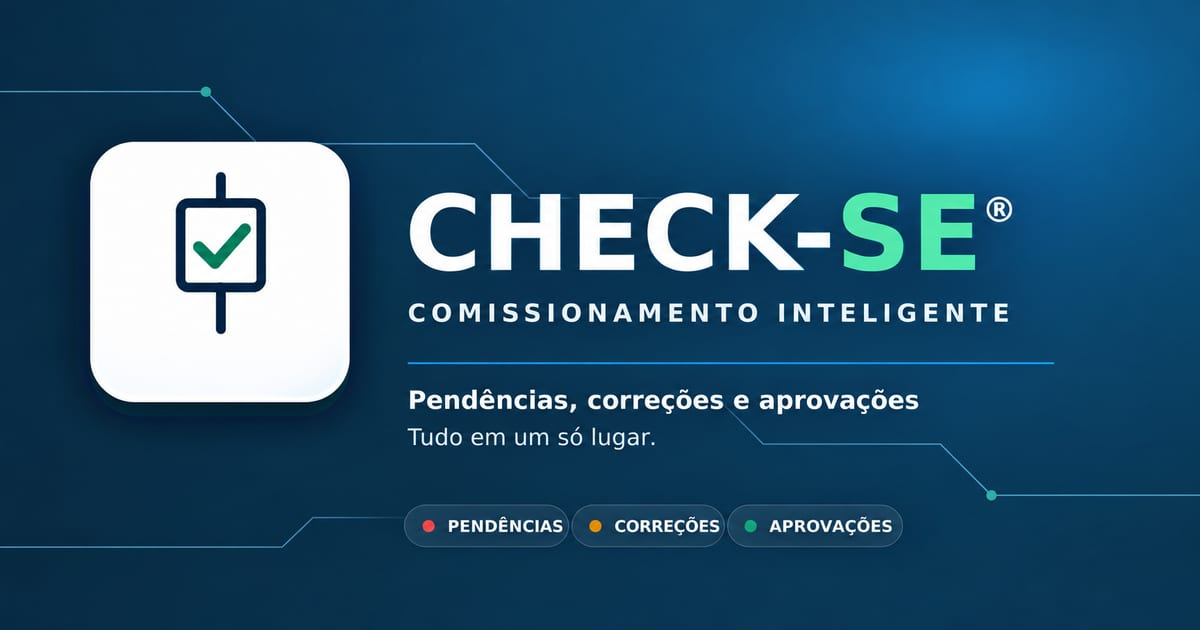
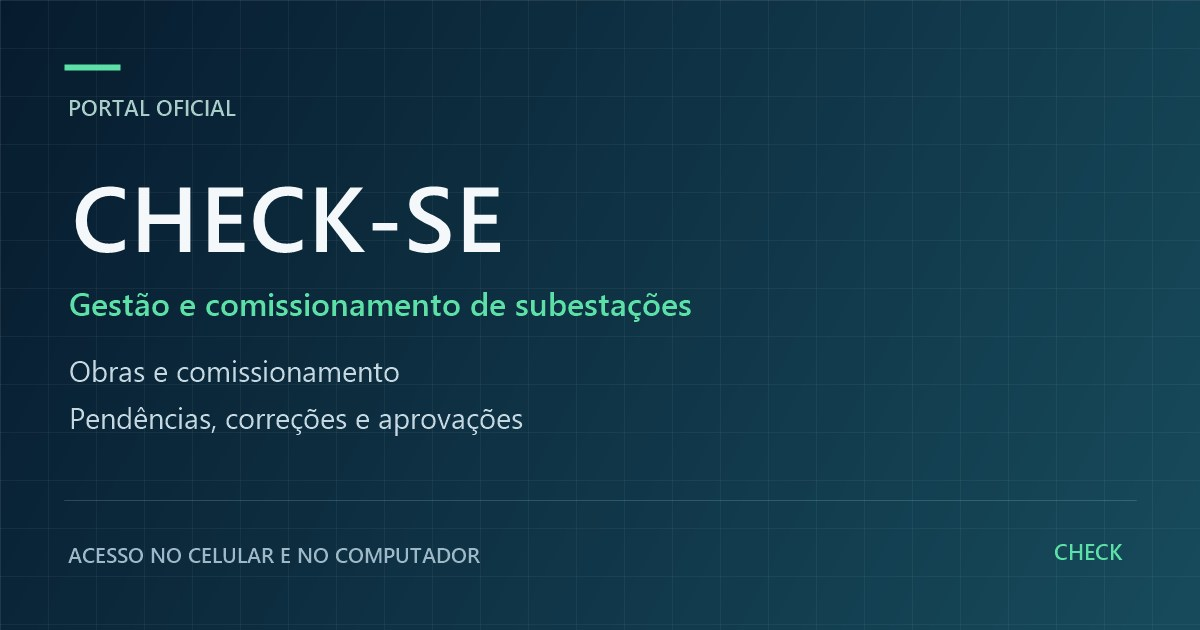
Atualiza apresentação do CHECK-SE e capa de compartilhamento

diff --git a/index.html b/index.html
@@ -9,26 +9,26 @@
   <meta name="apple-mobile-web-app-capable" content="yes">
   <meta name="apple-mobile-web-app-status-bar-style" content="black-translucent">
   <meta name="apple-mobile-web-app-title" content="CHECK-SE">
-  <title>CHECK-SE® | Comissionamento Inteligente</title>
+  <title>CHECK-SE | Gestão e comissionamento de subestações</title>
   <link rel="canonical" href="https://byskopf.github.io/CHECK-SE/">
 
   <meta property="og:locale" content="pt_BR">
   <meta property="og:type" content="website">
   <meta property="og:site_name" content="CHECK-SE®">
-  <meta property="og:title" content="CHECK-SE® | Comissionamento Inteligente">
-  <meta property="og:description" content="Pendências, correções e aprovações de obras e comissionamento — tudo em um só lugar.">
+  <meta property="og:title" content="CHECK-SE | Gestão e comissionamento de subestações">
+  <meta property="og:description" content="Obras e comissionamento de subestações, com gestão de pendências, correções e aprovações.">
   <meta property="og:url" content="https://byskopf.github.io/CHECK-SE/">
-  <meta property="og:image" content="https://byskopf.github.io/CHECK-SE/og-check-se-whatsapp.jpg?v=3">
-  <meta property="og:image:secure_url" content="https://byskopf.github.io/CHECK-SE/og-check-se-whatsapp.jpg?v=3">
+  <meta property="og:image" content="https://byskopf.github.io/CHECK-SE/og-check-se-whatsapp.jpg?v=20260913">
+  <meta property="og:image:secure_url" content="https://byskopf.github.io/CHECK-SE/og-check-se-whatsapp.jpg?v=20260913">
   <meta property="og:image:type" content="image/jpeg">
   <meta property="og:image:width" content="1200">
   <meta property="og:image:height" content="630">
-  <meta property="og:image:alt" content="CHECK-SE — Comissionamento Inteligente">
+  <meta property="og:image:alt" content="CHECK-SE — Gestão e comissionamento de subestações">
 
   <meta name="twitter:card" content="summary_large_image">
-  <meta name="twitter:title" content="CHECK-SE® | Comissionamento Inteligente">
-  <meta name="twitter:description" content="Pendências, correções e aprovações de obras e comissionamento — tudo em um só lugar.">
-  <meta name="twitter:image" content="https://byskopf.github.io/CHECK-SE/og-check-se-whatsapp.jpg?v=3">
+  <meta name="twitter:title" content="CHECK-SE | Gestão e comissionamento de subestações">
+  <meta name="twitter:description" content="Obras e comissionamento de subestações, com gestão de pendências, correções e aprovações.">
+  <meta name="twitter:image" content="https://byskopf.github.io/CHECK-SE/og-check-se-whatsapp.jpg?v=20260913">
   <link rel="preconnect" href="https://script.google.com">
   <link rel="preconnect" href="https://script.googleusercontent.com">
   <link rel="dns-prefetch" href="//script.google.com">
@@ -88,6 +88,15 @@
   </style>
   <script src="app-config.js" defer></script>
   <script src="app.js" defer></script>
+  <style>
+    .features{margin-top:24px;padding-top:20px;border-top:1px solid rgba(255,255,255,.14);text-align:left}
+    .features h2{margin:0 0 14px;font-size:1rem;font-weight:600;line-height:1.4}
+    .features dl{display:grid;grid-template-columns:repeat(2,minmax(0,1fr));gap:16px;margin:0}
+    .features dt{font-size:.9rem;font-weight:600;line-height:1.4}
+    .features dd{margin:5px 0 0;font-size:.84rem;line-height:1.55;color:#b6c6d3}
+    @media(max-width:480px){.features dl{grid-template-columns:1fr;gap:14px}}
+  </style>
+<style>.portal-links{display:flex;flex-wrap:wrap;gap:12px;justify-content:center;margin-top:22px}.portal-links a,.portal-links button{color:#bdf3d9;font:inherit;font-size:.82rem;font-weight:600;background:none;border:1px solid rgba(92,224,168,.22);padding:10px 12px;border-radius:10px;text-decoration:none;cursor:pointer}.portal-links button[hidden]{display:none}.share-status{font-size:.82rem;line-height:1.5;color:#b8c7d5;text-align:center}.wordmark p{line-height:1.6;letter-spacing:.08em;font-weight:600}</style>
 </head>
 <body>
   <div class="ambient ambient-one" aria-hidden="true"></div>
@@ -122,7 +131,7 @@
 
       <div class="wordmark">
         <h1 id="pageTitle"><span>CHECK-</span><strong>SE</strong><sup>®</sup></h1>
-        <p>Comissionamento inteligente</p>
+        <p>Gestão e comissionamento de subestações</p>
       </div>
 
       <p class="intro" id="introText">
@@ -160,10 +169,24 @@
         </li>
       </ul>
 
+      <section class="features" aria-labelledby="featuresTitle">
+        <h2 id="featuresTitle">O que você encontra no CHECK-SE</h2>
+        <dl>
+          <div><dt>Obras e comissionamento</dt><dd>Acompanhe os trabalhos de comissionamento nas subestações.</dd></div>
+          <div><dt>Gestão de pendências</dt><dd>Organize os itens que precisam de atenção durante a obra.</dd></div>
+          <div><dt>Correções</dt><dd>Acompanhe o tratamento das pendências pelas equipes responsáveis.</dd></div>
+          <div><dt>Aprovações</dt><dd>Confira as correções e acompanhe a aprovação dos itens.</dd></div>
+        </dl>
+  
+    </section>
+
       <div class="security-note">
         <svg aria-hidden="true" viewBox="0 0 24 24"><path d="M12 3 5 6v5c0 4.6 2.8 8 7 10 4.2-2 7-5.4 7-10V6z"/><path class="accent" d="m9 12 2 2 4-4"/></svg>
         <span>Você será direcionado ao ambiente do CHECK-SE.</span>
       </div>
+<div class="portal-links"><a href="https://byskopf.github.io/check-selt/">Ver os dois sistemas</a><button type="button" hidden data-share-title="CHECK-SE" data-share-url="https://byskopf.github.io/CHECK-SE/">Compartilhar CHECK-SE</button></div>
+      <p id="shareStatus" class="share-status" role="status" aria-live="polite"></p>
+      <script src="share.js" defer></script>
     </section>
 
     <footer>

diff --git a/share.js b/share.js
@@ -1,0 +1,12 @@
+document.querySelectorAll('[data-share-url]').forEach(function(button){
+  button.hidden=false;
+  button.addEventListener('click',async function(){
+    var data={title:button.dataset.shareTitle,url:button.dataset.shareUrl};
+    var status=document.getElementById('shareStatus');
+    try{
+      if(navigator.share){await navigator.share(data);}
+      else if(navigator.clipboard&&window.isSecureContext){await navigator.clipboard.writeText(data.url);status.textContent='Link copiado. Cole na conversa em que deseja compartilhar.';}
+      else{status.textContent='Copie este link: '+data.url;}
+    }catch(error){if(error.name!=='AbortError')status.textContent='Não foi possível compartilhar. Copie este link: '+data.url;}
+  });
+});

diff --git a/sw.js b/sw.js
@@ -1,5 +1,5 @@
 /* Service Worker for CHECK-SE
-   PWA 1.2.0
+   PWA 1.2.1
    - Usa o escopo atual para montar as URLs do app shell
    - Mantém o cache do CHECK-SE isolado de outros PWAs no mesmo domínio
    - Cacheia cada navegação pela própria URL, sem sobrescrever o index.html
@@ -27,6 +27,7 @@ var APP_SHELL = [
   new URL('app-config.js', scopeBase).href,
   new URL('styles.css', scopeBase).href,
   new URL('app.js', scopeBase).href,
+  new URL('share.js', scopeBase).href,
   new URL('manifest.json', scopeBase).href,
   new URL('favicon.svg', scopeBase).href,
   new URL('icon-192.png', scopeBase).href,

diff --git a/app-config.js b/app-config.js
@@ -1,7 +1,7 @@
 /* Configuração única do portal CHECK-SE.
    Atualize este arquivo quando mudar a versão do PWA ou a implantação do Apps Script. */
 var CHECK_SE_CONFIG = Object.freeze({
-  version: '1.2.0',
+  version: '1.2.1',
   appUrl: 'https://script.google.com/macros/s/AKfycbx7ReYi1OoXTvO2e-FLXczg-Ube0WZcjJSWe8HGlWbQtUof1F-1dOUQ-kqrwZQPjb6D/exec'
 });
 
